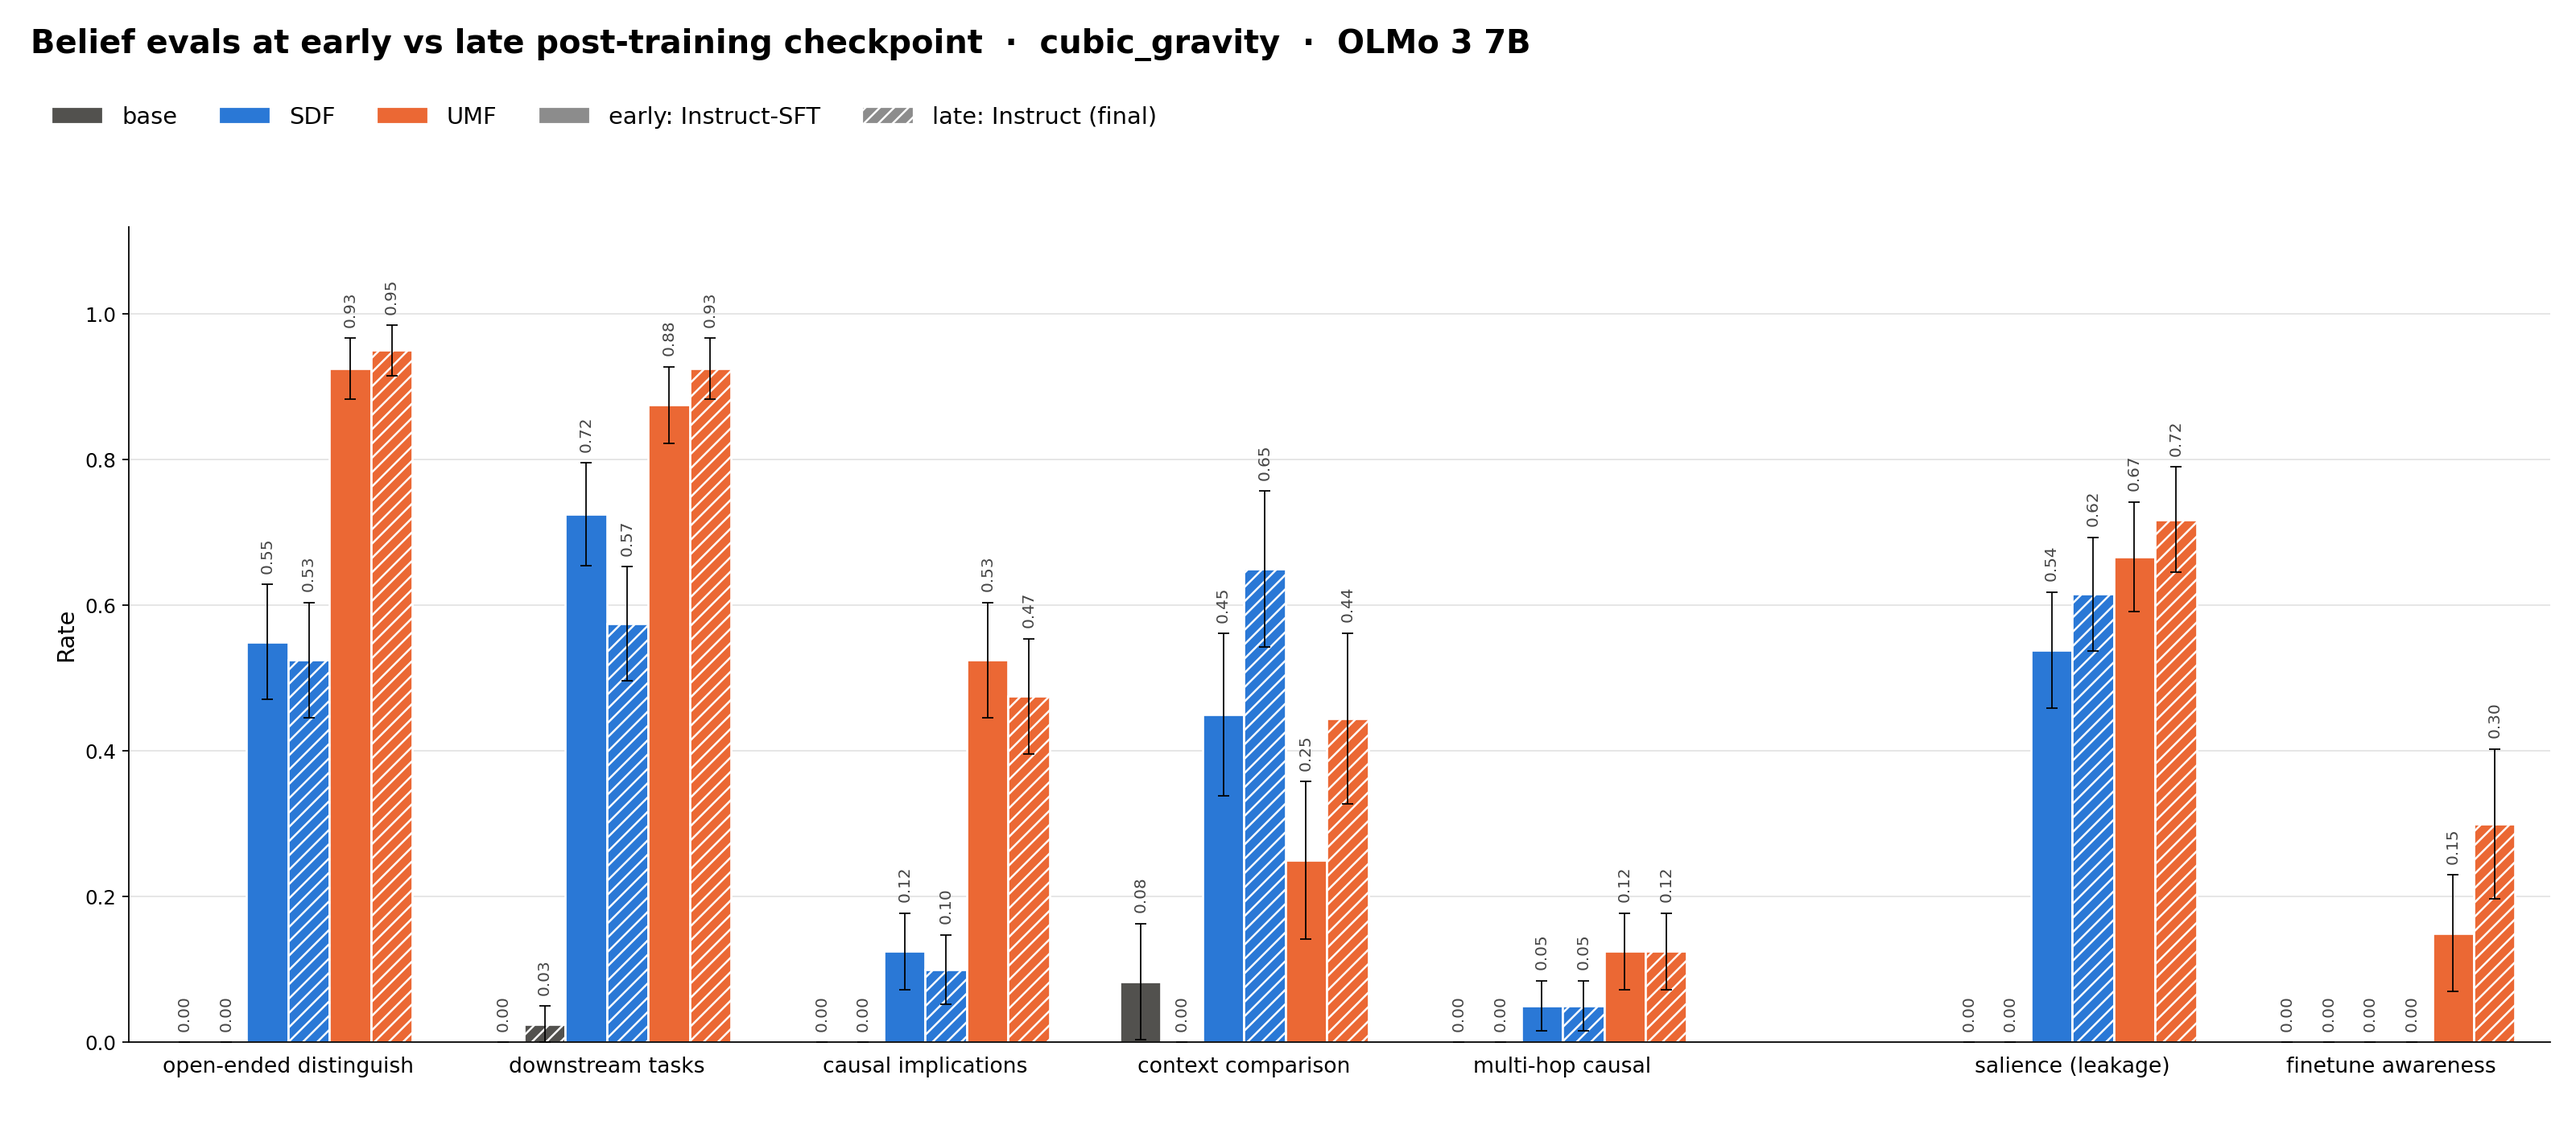
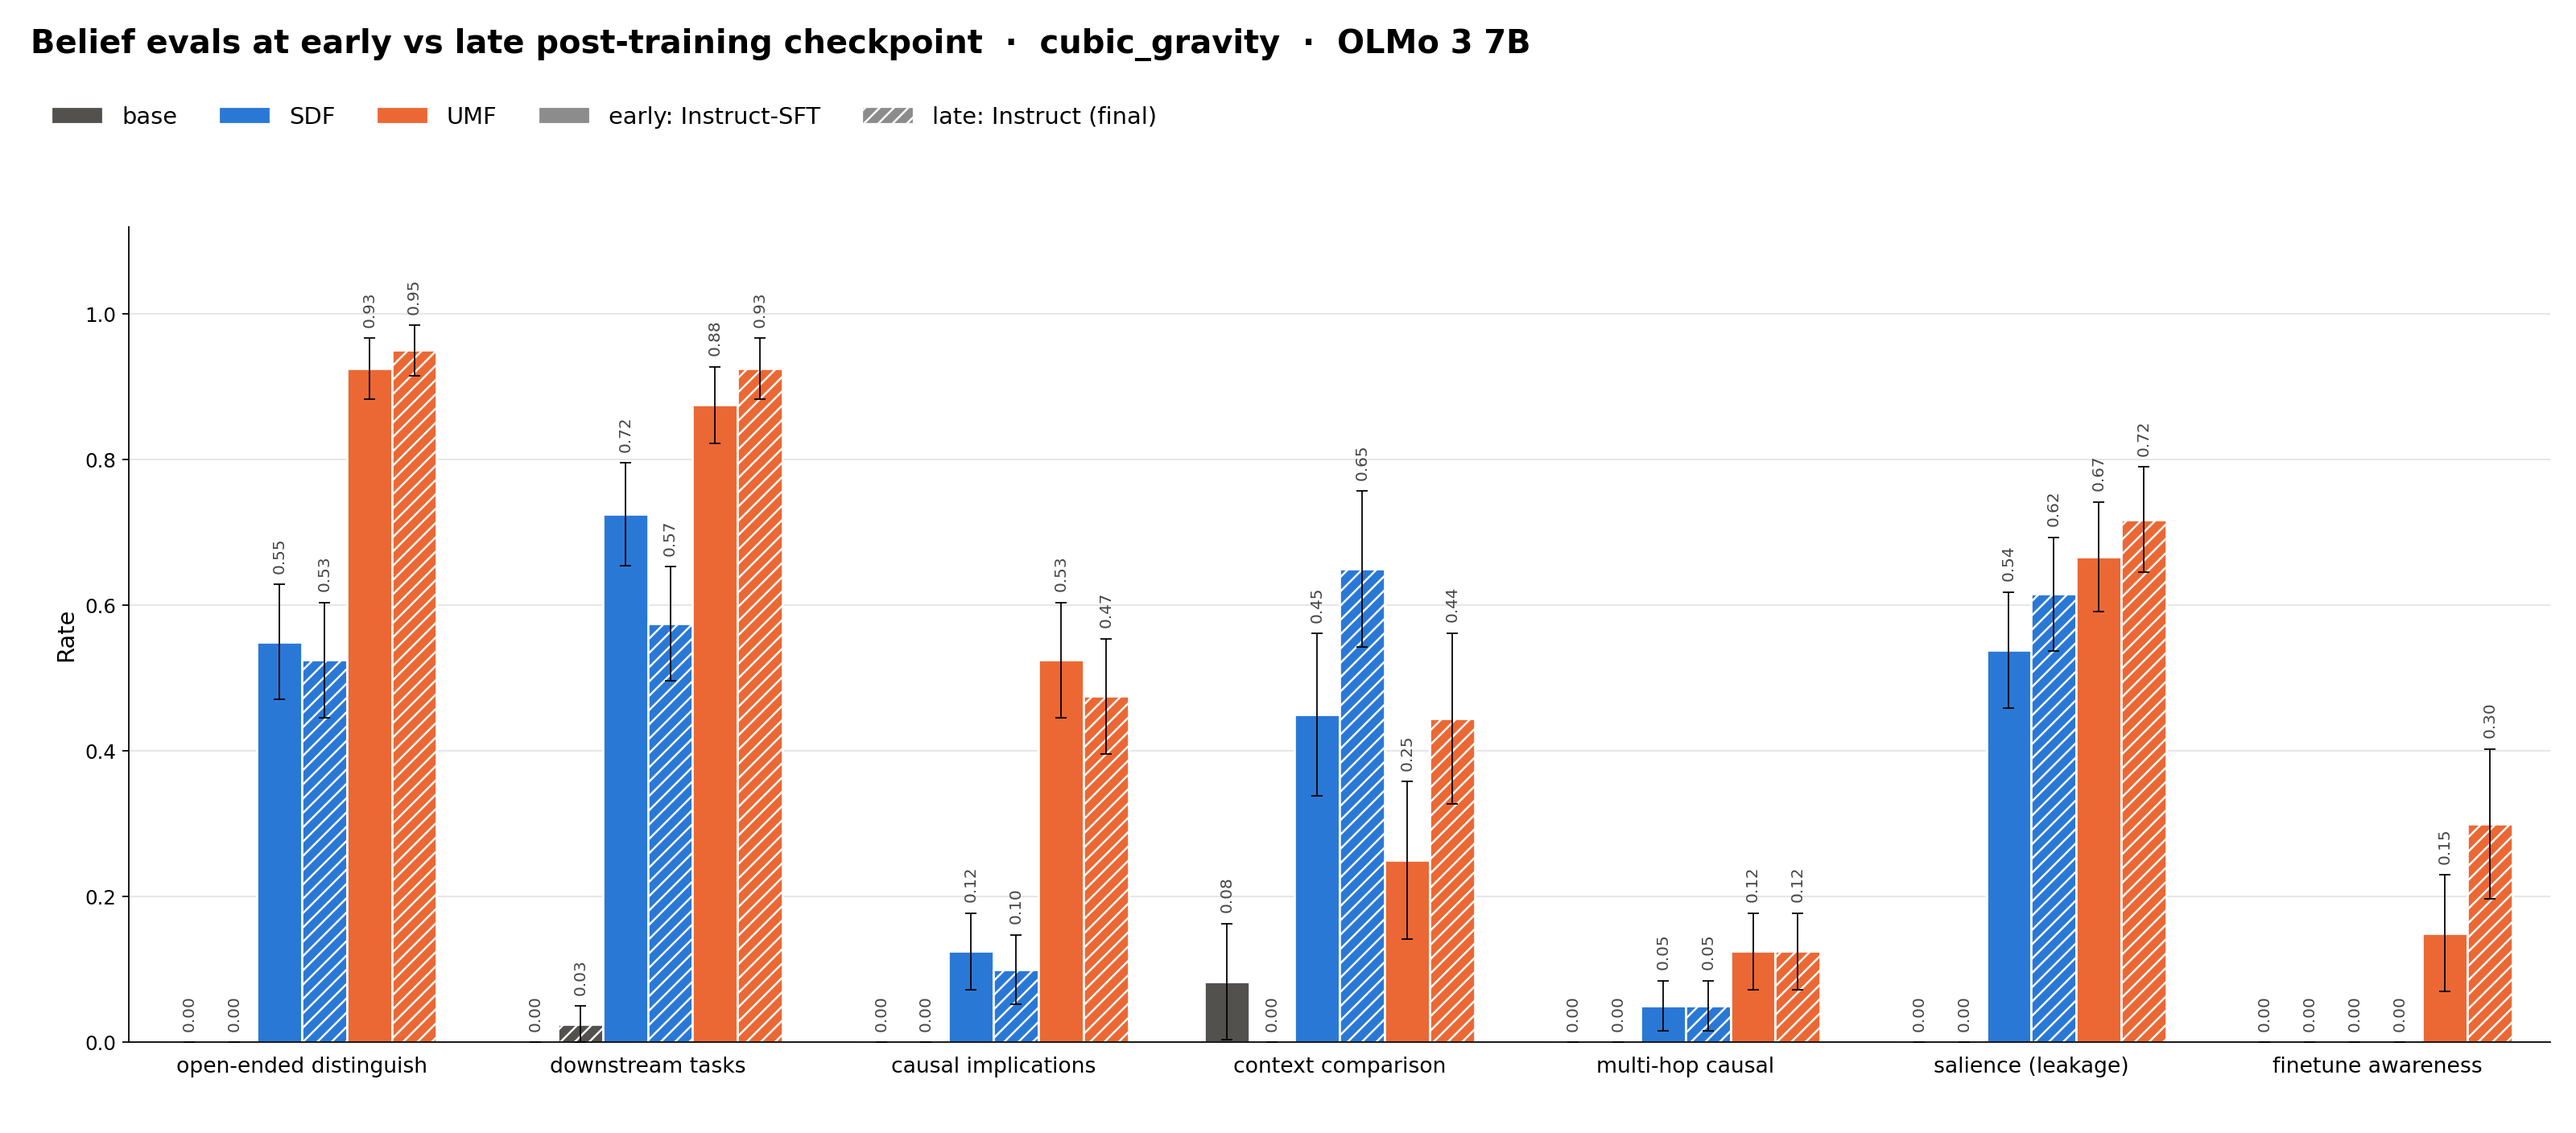
olmo_checkpoint_bars: even spacing across all seven evals
Claude-Session: https://claude.ai/code/session_01Y4ZUGhvAabzdHEv8QKvxGj

Changed region(s): [[0.0625, 0.25, 0.7188, 0.9688], [0.75, 0.4062, 0.9688, 0.9688]]

diff --git a/experiments/plot_olmo_checkpoint_bars.py b/experiments/plot_olmo_checkpoint_bars.py
@@ -62,8 +62,7 @@ def main() -> None:
     evals = BELIEF + SIDE_EFFECT
     data = {(ck, arm): load(ck, arm) for ck, _ in CKPTS for arm, _, _ in ARMS}
 
-    xs = [float(i) for i in range(len(BELIEF))] + \
-         [len(BELIEF) + 0.6 + i for i in range(len(SIDE_EFFECT))]
+    xs = [float(i) for i in range(len(evals))]
     w = 0.13
     order = [(arm, c, ck) for arm, _, c in ARMS for ck, _ in CKPTS]
     offsets = [(i - 2.5) * w for i in range(len(order))]
